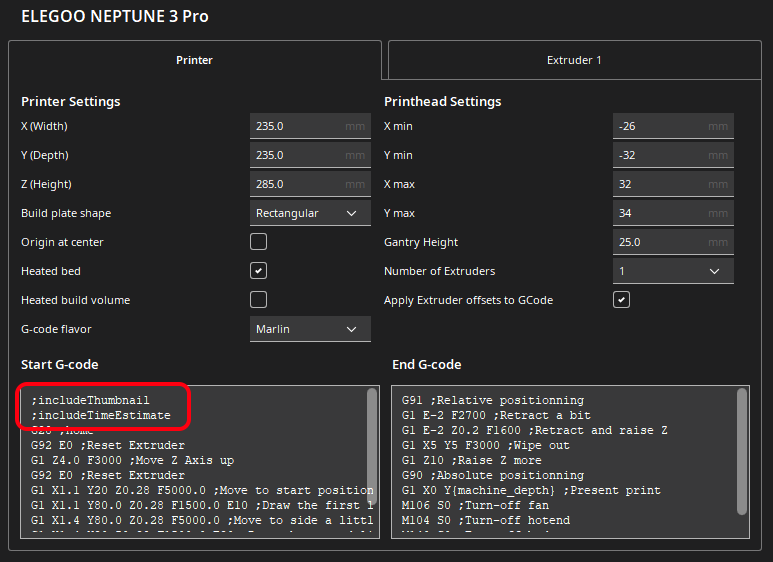
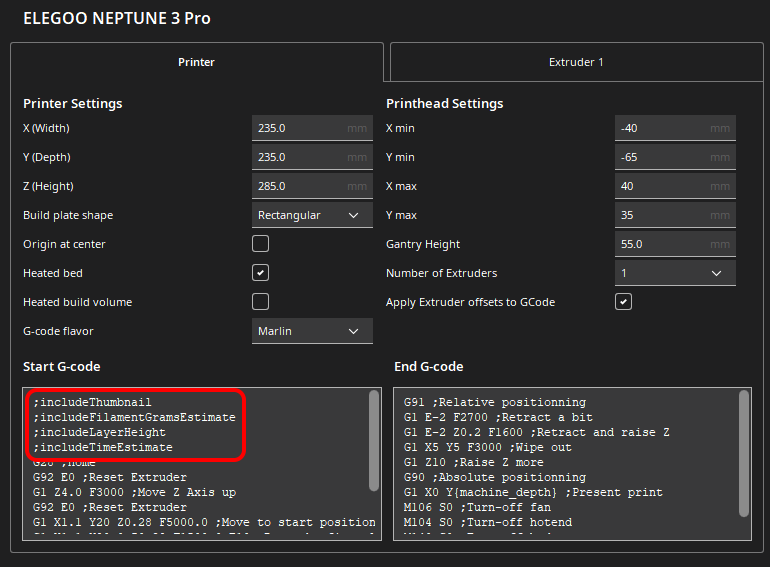
Added most changes for version 2.0.0

diff --git a/elegoo_neptune_3_thumbnails.py b/elegoo_neptune_3_thumbnails.py
@@ -2,14 +2,14 @@
 # Copyright (c) 2023 sigathi
 # Copyright (c) 2020 DhanOS
 # The ElegooNeptune3Thumbnails plugin is released under the terms of the AGPLv3 or higher.
-
+import math
 import os
 from array import array
 from ctypes import *
-from typing import Optional
+from os import path
 
 from PyQt6.QtCore import Qt
-from PyQt6.QtGui import QImage, QPainter, QFont
+from PyQt6.QtGui import QImage, QPainter, QFont, QColor
 
 from UM.Application import Application
 from UM.Extension import Extension
@@ -23,6 +23,18 @@ class ElegooNeptune3Thumbnails(Extension):
     """
     Main class of the extension
     """
+
+    colors: dict[str, QColor] = {
+        "green": QColor(34, 236, 128),
+        "red": QColor(209, 76, 81),
+        "yellow": QColor(251, 226, 0),
+        "white": QColor(255, 255, 255),
+        "bg_dark": QColor(30, 36, 52),
+        "bg_light": QColor(46, 54, 75),
+        "bg_thumbnail": QColor(48, 57, 79),
+        "own_gray": QColor(200, 200, 200)
+    }
+    thumbnail_bg_path: str = path.join(path.dirname(path.realpath(__file__)), "bg_thumbnail.png")
 
     def __init__(self):
         """
@@ -47,23 +59,32 @@ class ElegooNeptune3Thumbnails(Extension):
             return
 
         # Enumerate G-code objects
-        for build_plate_number, gcode_list in self.scene.gcode_dict.items():
+        for build_plate_number, g_code_list in self.scene.gcode_dict.items():
+
+            # Set commands
             include_thumbnail: bool = False
-            include_time_estimate: bool = False
-            for g_code in gcode_list:  # List of commands sets
+            include_options: dict[str, int] = {}
+
+            for g_code in g_code_list:  # List of commands sets
 
                 # Check for options
                 if ';includeThumbnail' in g_code:
                     include_thumbnail = True
                 if ';includeTimeEstimate' in g_code:
-                    include_time_estimate = True
+                    include_options["time"] = g_code.index(";includeTimeEstimate")
+                if ';includeFilamentMetersEstimate' in g_code:
+                    include_options["filament_meters"] = g_code.index(";includeFilamentMetersEstimate")
+                if ';includeFilamentGramsEstimate' in g_code:
+                    include_options["filament_grams"] = g_code.index(";includeFilamentGramsEstimate")
+                if ';includeLayerHeight' in g_code:
+                    include_options["layer_height"] = g_code.index(";includeLayerHeight")
 
             # Get params from G-code
-            g_code_params_list: list[str] = gcode_list[0].splitlines()
+            g_code_params_list: list[str] = g_code_list[0].splitlines()
             g_code_params: dict[str, str] = {p[1:p.index(":")].lower(): p[p.index(":") + 1:] for p in
                                              g_code_params_list if ":" in p}
             """
-            Example:
+            Example for g_code_params:
             {
                 'flavor': 'Marlin',
                 'time': '2432',
@@ -78,22 +99,38 @@ class ElegooNeptune3Thumbnails(Extension):
             }
             """
 
+            # Parse params
+            minutes: int = math.floor(int(g_code_params["time"]) / 60)
+            est_time: str = f"{minutes // 60}:{minutes % 60:02d}h"
+            Logger.log("d", f"Estimated time: {est_time}")
+
+            filament_meters: float = float(g_code_params["filament used"][:-1])
+            est_filament_meters: str = f"{round(filament_meters, 2)}m"
+            est_filament_grams: str = f"{round(filament_meters * 2.98)}g"
+            Logger.log("d", f"Estimated filament: {est_filament_meters} {est_filament_grams}")
+
+            layer_height: str = f"{g_code_params['layer height']}mm"
+            Logger.log("d", f"Layer height: {layer_height}")
+
             # Add encoded snapshot image if wanted (simage and gimage)
             if include_thumbnail:
 
+                # Data
+                data_lines: list[str] = []
+
+                # Fill data
+                for option, priority in sorted(include_options.items(), key=lambda item: item[1]):
+                    if option == "time":
+                        data_lines.append(est_time)
+                    if option == "filament_meters":
+                        data_lines.append(est_filament_meters)
+                    if option == "filament_grams":
+                        data_lines.append(est_filament_grams)
+                    if option == "layer_height":
+                        data_lines.append(layer_height)
+
                 # Take a screenshot
-                if include_time_estimate:
-
-                    # Add estimated print time if it should be added
-                    # Calculate estimation
-                    minutes: int = round(int(g_code_params["time"]) / 60)
-                    estimate: str = f"{minutes // 60}:{minutes % 60:02d}"
-                    Logger.log("d", f"Estimated time: {estimate}")
-
-                    # Take screenshot with estimate
-                    screenshot: QImage = self.take_screenshot(estimate)
-                else:
-                    screenshot: QImage = self.take_screenshot()
+                screenshot: QImage = self.take_screenshot(data_lines)
 
                 # Create the G-code for the screenshot depending on machine type
                 image_gcode = ""
@@ -112,23 +149,46 @@ class ElegooNeptune3Thumbnails(Extension):
                 self.scene.gcode_dict[0][0] = image_gcode + self.scene.gcode_dict[0][0]
 
     @classmethod
-    def take_screenshot(cls, text: Optional[str] = None) -> QImage:
+    def take_screenshot(cls, lines: list[str]) -> QImage:
         """
         Take a screenshot of the model
         """
-        Logger.log("d", f"Taking a screenshot with text {text}")
-        screen: QImage = Snapshot.snapshot(width=900, height=900)
-        if text:
-            screen = cls.add_text(screen, text)
+        Logger.log("d", f"Taking a screenshot with text {lines}")
+        screen: QImage = Snapshot.snapshot(width=600, height=600)
+
+        # Add background
+        screen = cls.add_background(screen)
+
+        # Add text if options are set
+        for i, line in enumerate(reversed(lines)):
+            if i < 4:
+                screen = cls.add_text(screen, line, i > 1, i % 2 == 1)
+
         return screen
 
     @classmethod
-    def add_text(cls, image: QImage, text: str) -> QImage:
+    def add_background(cls, image: QImage) -> QImage:
+        """
+        Adds a background to replace the transparent one
+        """
+        background = QImage(cls.thumbnail_bg_path)
+        painter = QPainter(background)
+        painter.drawImage(150, 160, image)
+        painter.end()
+        return background
+
+    @classmethod
+    def add_text(cls, image: QImage, line: str, top: bool, left: bool) -> QImage:
+        """
+        Adds text line to the image
+        """
         painter = QPainter(image)
-        font = QFont("Arial", 60)
+        font = QFont("Arial", 30)
         painter.setFont(font)
-        painter.setPen(Qt.GlobalColor.darkGreen)
-        painter.drawText(0, 0, 880, 890, Qt.AlignmentFlag.AlignRight + Qt.AlignmentFlag.AlignBottom, text)
+        painter.setPen(cls.colors["own_gray"])
+        painter.drawText(30 if left else 470, 20 if top else 790, 400, 100,
+                         (Qt.AlignmentFlag.AlignLeft if left else Qt.AlignmentFlag.AlignRight) +
+                         Qt.AlignmentFlag.AlignVCenter, line)
         painter.end()
         return image
 

diff --git a/test/test.py b/test/test.py
@@ -1,0 +1,65 @@
+# Copyright (c) 2023 Molodos
+# The ElegooNeptune3Thumbnails plugin is released under the terms of the AGPLv3 or higher.
+
+import sys
+from os import path
+
+from PyQt6 import QtWidgets
+from PyQt6.QtCore import Qt
+from PyQt6.QtGui import QImage, QPainter, QFont, QColor
+
+
+class Test:
+    colors: dict[str, QColor] = {
+        "green": QColor(34, 236, 128),
+        "red": QColor(209, 76, 81),
+        "yellow": QColor(251, 226, 0),
+        "white": QColor(255, 255, 255),
+        "bg_dark": QColor(30, 36, 52),
+        "bg_light": QColor(46, 54, 75),
+        "bg_thumbnail": QColor(48, 57, 79),
+        "own_gray": QColor(200, 200, 200)
+    }
+    thumbnail_bg_path: str = path.join(path.dirname(path.realpath(__file__)), "..", "bg_thumbnail.png")
+    demo_in_path: str = path.join(path.dirname(path.realpath(__file__)), "cura_screen_example.png")
+    demo_out_path: str = path.join(path.dirname(path.realpath(__file__)), "demo.png")
+
+    @classmethod
+    def test(cls) -> None:
+        app = QtWidgets.QApplication(sys.argv)
+        screen = QImage(cls.demo_in_path)
+        screen = cls.add_background(screen)
+        for i, line in enumerate(reversed(["3.86m", "12g", "0.2mm", "1:06h"])):
+            if i < 4:
+                screen = cls.add_text(screen, line, i > 1, i % 2 == 1)
+        screen.save(cls.demo_out_path)
+
+    @classmethod
+    def add_background(cls, image: QImage) -> QImage:
+        """
+        Adds a background to replace the transparent one
+        """
+        background = QImage(cls.thumbnail_bg_path)
+        painter = QPainter(background)
+        painter.drawImage(150, 160, image)
+        painter.end()
+        return background
+
+    @classmethod
+    def add_text(cls, image: QImage, line: str, top: bool, left: bool) -> QImage:
+        """
+        Adds text line to the image
+        """
+        painter = QPainter(image)
+        font = QFont("Arial", 30)
+        painter.setFont(font)
+        painter.setPen(cls.colors["own_gray"])
+        painter.drawText(30 if left else 470, 20 if top else 790, 400, 100,
+                         (Qt.AlignmentFlag.AlignLeft if left else Qt.AlignmentFlag.AlignRight) +
+                         Qt.AlignmentFlag.AlignVCenter, line)
+        painter.end()
+        return image
+
+
+if __name__ == "__main__":
+    Test.test()

diff --git a/package_plugin/__main__.py b/package_plugin/__main__.py
@@ -7,7 +7,7 @@ from zipfile import ZipFile
 
 PACKAGE_PATH: str = os.path.dirname(os.path.realpath(__file__))
 
-PLUGIN_FILES: list[str] = ["__init__.py", "elegoo_neptune_3_thumbnails.py", "LICENSE", "plugin.json", "README.md"]
+PLUGIN_FILES: list[str] = ["__init__.py", "elegoo_neptune_3_thumbnails.py", "bg_thumbnail.png", "LICENSE", "plugin.json", "README.md"]
 
 BUILD_NAME = os.path.join(PACKAGE_PATH, "ElegooNeptune3Thumbnails.curapackage")
 

diff --git a/test/__init__.py b/test/__init__.py
@@ -1,0 +1,2 @@
+# Copyright (c) 2023 Molodos
+# The ElegooNeptune3Thumbnails plugin is released under the terms of the AGPLv3 or higher.

diff --git a/README.md b/README.md
@@ -7,7 +7,10 @@ Pro)
 
 Additional Features:
 
-- The estimated print time can be added to the thumbnail for a better overview
+- The estimated print time can be added to thumbnail
+- Add estimated filament usage in meters to thumbnail
+- Add estimated filament usage in grams (for 1.75mm diameter PLA) to thumbnail
+- Add layer height to thumbnail
 
 > If you have some idea on how to improve the plugin, feel free to create an issue for that
 
@@ -31,10 +34,17 @@ If you like this project, every support is welcome :D
 
 ### Possible Options
 
-| Option                 | Description                                                                                 |
-|------------------------|---------------------------------------------------------------------------------------------|
-| `;includeThumbnail`    | Includes a thumbnail of the object to the gcode                                             |
-| `;includeTimeEstimate` | Includes the estimated print time in the thumbnail (needs `;includeThumbnail` to be active) |
+> **Note:** A maximum of 4 options more than `;includeThumbnail` is supported. \
+> The order in which you specify your options in the start G-code will also be the display
+> order (`top-left` > `top-right` > `bottom-left` > `bottom-right`)
+
+| Option                           | Description                                                                                                                        |
+|----------------------------------|------------------------------------------------------------------------------------------------------------------------------------|
+| `;includeThumbnail`              | Includes a thumbnail of the object to the gcode                                                                                    |
+| `;includeTimeEstimate`           | Includes the estimated print time in the thumbnail (needs `;includeThumbnail` to be active)                                        |
+| `;includeFilamentMetersEstimate` | Includes the estimated filament usage in meters in the thumbnail (needs `;includeThumbnail` to be active)                          |
+| `;includeFilamentGramsEstimate`  | Includes the estimated filament usage in grams (for 1.75mm diameter PLA) in the thumbnail (needs `;includeThumbnail` to be active) |
+| `;includeLayerHeight`            | Includes the layer height in the thumbnail (needs `;includeThumbnail` to be active)                                                |                                                                                  |
 
 ### Adding An Option
 
@@ -46,11 +56,6 @@ If you like this project, every support is welcome :D
    <img src="images/cura_edit_g_code.png" width="600">
 
 ## FAQ
-
-### Why does my printer sometimes display one minute more than Cura?
-
-Cura does always round down internally while my plugin will round correctly. Therefore for e.g. 5 minutes and 48
-seconds, Cura will say 5 minutes (round down) while the plugin will say 6 minutes (round up)
 
 ### Does my printer support this plugin?
 
@@ -65,7 +70,7 @@ G-code, that a printer will only interpret if it can. So I guess just try it out
 4) Develop
 5) Create package `python -m package_plugin` (package will be
    under `packaget_plugin/ElegooNeptune3Thumbnails.curapackage`)
-6) Use the `test.py` script for testing the formatting of image texts
+6) Use the `text/test.py` script for testing the formatting of image texts
 
 ## Contribution
 
